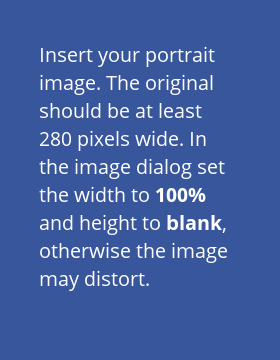
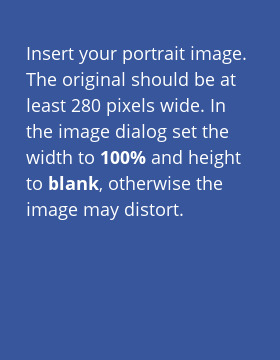
Update portrait placemarker image for use in email templates

Changed region(s): [[0.0857, 0.1222, 0.8857, 0.825], [0.7429, 0.275, 0.8, 0.3056]]

diff --git a/civimail-template.html b/civimail-template.html
@@ -187,7 +187,7 @@
               <tr>
                 <td valign="top" align="right" class="center" style="padding: 0;">
                   <p style="mso-table-lspace: 0; mso-table-rspace: 0; margin: 0;">
-                    <img width="267" src="http://citybibleforum.org/sites/default/files/images/content/Whats-so-great--highlight.jpg" alt="" border="0" style="border-radius: 4px; width: 267px; display: block;" class="deviceWidth" />
+                    <img width="280" src="http://citybibleforum.org/sites/all/themes/cbootf/email-placemarker-landscape.jpg" alt="" border="0" style="border-radius: 4px; width: 280px; display: block;" class="deviceWidth" />
                   </p>
                 </td>
               </tr>
@@ -237,7 +237,7 @@
               <tr>
                 <td valign="top" align="right" class="center" style="padding: 0;">
                   <p style="mso-table-lspace: 0; mso-table-rspace: 0; margin: 0;">
-                    <img width="267" src="http://citybibleforum.org/sites/default/files/images/content/Coopers-Event_Rotating-Banner.jpg" alt="" border="0" style="border-radius: 4px; width: 267px; display: block;" class="deviceWidth" />
+                    <img width="280" src="http://citybibleforum.org/sites/all/themes/cbootf/email-placemarker-landscape.jpg" alt="" border="0" style="border-radius: 4px; width: 280px; display: block;" class="deviceWidth" />
                   </p>
                 </td>
               </tr>
@@ -285,7 +285,7 @@
           <td style="background-color: #d8eaf9; border-radius: 4px;">
             <table width="100%" cellpadding="0" cellspacing="0" border="0" class="deviceWidth">
               <tr>
-                <td width="54%" style="font-size: 14px; color: #333333; font-weight: normal; text-align: left; font-family: 'Open Sans',Arial,Helvetica,sans-serif; line-height: 24px; vertical-align: top; padding: 15px;">
+                <td width="49%" style="font-size: 14px; color: #333333; font-weight: normal; text-align: left; font-family: 'Open Sans',Arial,Helvetica,sans-serif; line-height: 24px; vertical-align: top; padding: 15px;">
                   <p style="font-size: 16px; font-weight: bold; margin: 0 10px 10px 0; color: #02426f;">
                     SECTION - PORTRAIT IMAGE - ODD
                   </p>
@@ -310,9 +310,9 @@
                     </tr>
                   </table>
                 </td>
-                <td width="46%" valign="top" align="right" class="center" style="padding: 0;">
+                <td width="49%" valign="top" align="right" class="center" style="padding: 0;">
                   <p style="mso-table-lspace: 0; mso-table-rspace: 0; margin: 0;">
-                    <img width="267" src="http://citybibleforum.org/sites/default/files/images/sydney/2013/re-think.jpg" alt="" border="0" style="border-radius: 4px; width: 100%; display: block; max-width: 267px;" />
+                    <img width="280" src="http://citybibleforum.org/sites/all/themes/cbootf/email-placemarker-portrait.jpg" alt="" border="0" style="border-radius: 4px; width: 100%; display: block; max-width: 280px;" />
                   </p>
                 </td>
               </tr>
@@ -331,7 +331,7 @@
           <td style="background-color: #02426f; border-radius: 4px;">
             <table width="100%" cellpadding="0" cellspacing="0" border="0" class="deviceWidth">
               <tr>
-                <td width="54%" style="font-size: 14px; color: #ffffff; font-weight: normal; text-align: left; font-family: 'Open Sans',Arial,Helvetica,sans-serif; line-height: 24px; vertical-align: top; padding: 15px;">
+                <td width="49%" style="font-size: 14px; color: #ffffff; font-weight: normal; text-align: left; font-family: 'Open Sans',Arial,Helvetica,sans-serif; line-height: 24px; vertical-align: top; padding: 15px;">
                   <p style="font-size: 16px; font-weight: bold; margin: 0 10px 10px 0; color: #ffffff;">
                     SECTION - PORTRAIT IMAGE - EVEN
                   </p>
@@ -356,9 +356,9 @@
                     </tr>
                   </table>
                 </td>
-                <td width="46%" valign="top" align="right" class="center" style="padding: 0;">
+                <td width="49%" valign="top" align="right" class="center" style="padding: 0;">
                   <p style="mso-table-lspace: 0; mso-table-rspace: 0; margin: 0;">
-                    <img width="267" src="http://citybibleforum.org//sites/default/files/images/content/monkey-suit--aaron.michels--flickr.jpg" alt="" border="0" style="border-radius: 4px; width: 100%; display: block; max-width: 267px;" />
+                    <img width="280" src="http://citybibleforum.org/sites/all/themes/cbootf/email-placemarker-portrait.jpg" alt="" border="0" style="border-radius: 4px; width: 100%; display: block; max-width: 280px;" />
                   </p>
                 </td>
               </tr>
